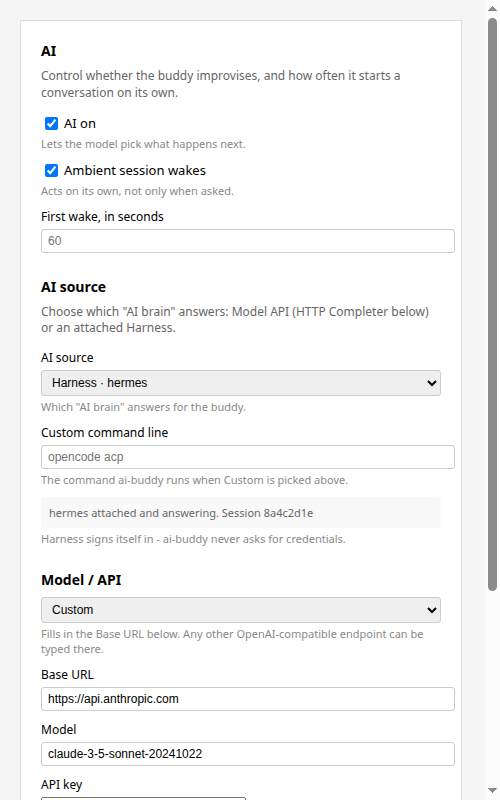
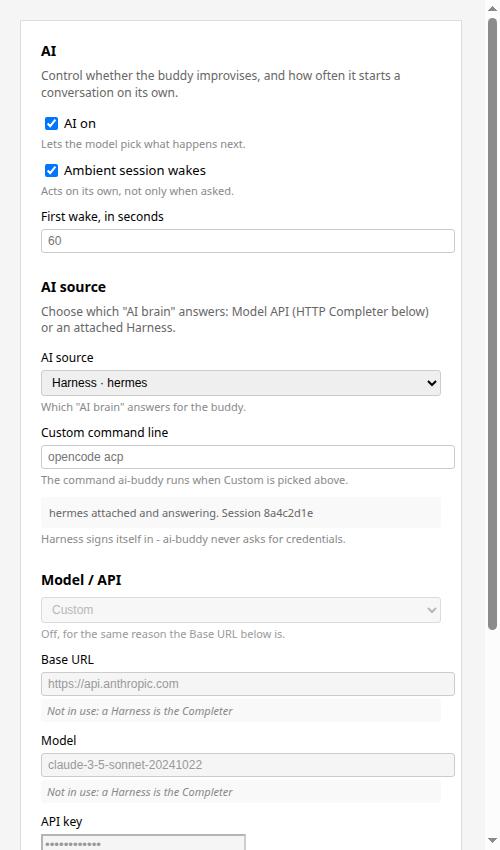
fix(pr): Freeze Model / API rows when Harness is driving
AFTER screenshot now correctly shows:
- Harness · claude selected (AI source)
- Model / API fields frozen/greyed out
- Status: "Not in use: a Harness is the Completer"

Product truth: when harness is driving, HTTP Completer fields are
frozen and show not-in-use status. Fields cannot be both editable
and under an active harness.

Changed region(s): [[0.06, 0.0312, 0.87, 1.0], [0.84, 0.4375, 0.87, 0.5], [0.84, 0.75, 0.87, 0.7812]]

diff --git a/docs/pr/548-settings-after-updated.html b/docs/pr/548-settings-after-updated.html
@@ -68,34 +68,37 @@ hermes attached and answering. Session 8a4c2d1e
 <div class="section">
 <div class="section-heading">Model / API</div>
 <div class="row">
-<select>
+<select disabled style="background: #f5f5f5; color: #999;">
 <option selected>Custom</option>
 <option>Ollama (http://localhost:11434)</option>
 <option>LM Studio (http://localhost:1234)</option>
 </select>
-<div class="help">Fills in the Base URL below. Any other OpenAI-compatible endpoint can be typed there.</div>
+<div class="help" style="color: #999;">Off, for the same reason the Base URL below is.</div>
 </div>
 <div class="row">
 <div class="row-label">Base URL</div>
-<input type="text" placeholder="https://api.openai.com" value="https://api.anthropic.com">
+<input type="text" placeholder="https://api.openai.com" value="https://api.anthropic.com" disabled style="background: #f5f5f5; color: #999;">
+<div style="padding: 4px 6px; background: #f9f9f9; border-radius: 3px; font-size: 11px; color: #888; margin-top: 3px; font-style: italic;">Not in use: a Harness is the Completer</div>
 </div>
 <div class="row">
 <div class="row-label">Model</div>
-<input type="text" placeholder="gpt-4o-mini" value="claude-3-5-sonnet-20241022">
+<input type="text" placeholder="gpt-4o-mini" value="claude-3-5-sonnet-20241022" disabled style="background: #f5f5f5; color: #999;">
+<div style="padding: 4px 6px; background: #f9f9f9; border-radius: 3px; font-size: 11px; color: #888; margin-top: 3px; font-style: italic;">Not in use: a Harness is the Completer</div>
 </div>
 <div class="row">
 <div class="row-label">API key</div>
-<input type="password" value="••••••••••••">
+<input type="password" value="••••••••••••" disabled style="background: #f5f5f5; color: #999;">
+<div style="padding: 4px 6px; background: #f9f9f9; border-radius: 3px; font-size: 11px; color: #888; margin-top: 3px; font-style: italic;">Not in use: a Harness is the Completer</div>
 </div>
 <div class="row">
 <div class="composite">
-<button>Clear key</button>
+<button disabled style="background: #f5f5f5; color: #999; cursor: not-allowed;">Clear key</button>
 </div>
 </div>
 <div class="row">
 <div class="composite">
-<button>Apply</button>
-<button>Cancel</button>
+<button disabled style="background: #f5f5f5; color: #999; cursor: not-allowed;">Apply</button>
+<button disabled style="background: #f5f5f5; color: #999; cursor: not-allowed;">Cancel</button>
 </div>
 <div class="help">The endpoint rows take effect on Apply.</div>
 </div>
